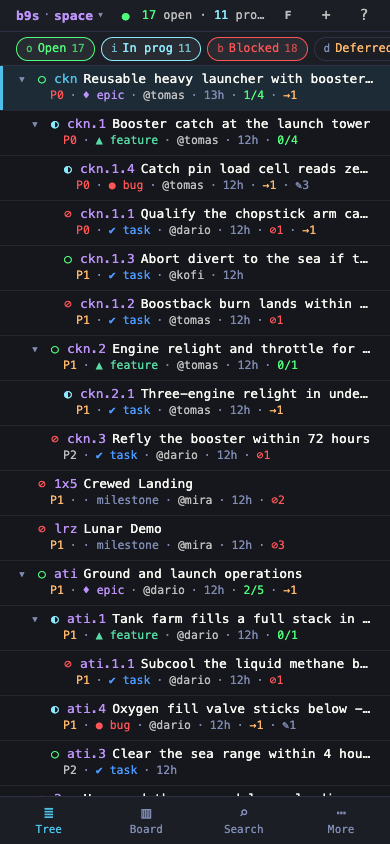
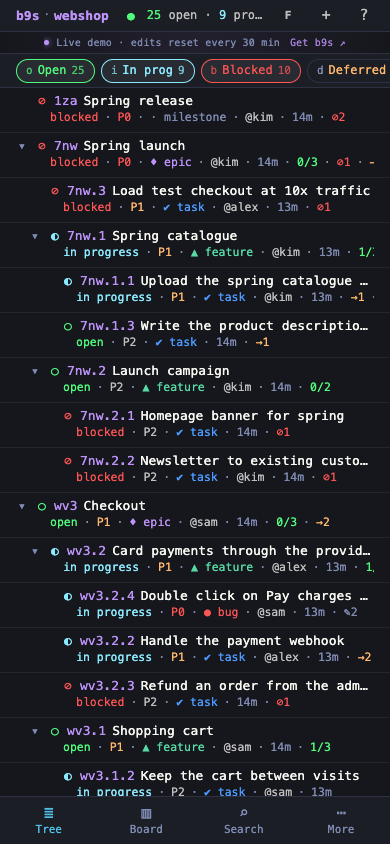
docs(readme): show the web shop demo at v1.3.2 in the screenshots
The terminal, browser and phone screenshots now show the sample web
shop the demo runs, with epics open on their features and tasks. The
text names the demo sample and the exact update time in the detail.

Refs: bd-hffz.18.6, bd-hffz.18.7

Changed region(s): [[0.0, 0.0, 1.0, 0.955]]

diff --git a/README.md b/README.md
@@ -13,7 +13,7 @@ https://github.com/user-attachments/assets/ccc8ebc9-4daf-4867-8c41-3f91df364f42
 
 | Terminal | Browser | Phone |
 |:---:|:---:|:---:|
-| ![b9s in a terminal, the issue tree of a sample project](docs/screenshot.png) | ![b9s web on a desktop browser, the board with one swimlane per epic](docs/screenshot-web-board.png) | <img src="docs/screenshot-phone.png" alt="b9s web on a phone, the issue tree" width="200"> |
+| ![b9s in a terminal, the issue tree of the sample web shop: epics, features and tasks](docs/screenshot.png) | ![b9s web on a desktop browser, the board of the sample web shop with one swimlane per epic](docs/screenshot-web-board.png) | <img src="docs/screenshot-phone.png" alt="b9s web on a phone, the issue tree of the sample web shop" width="200"> |
 
 b9s is a keyboard-driven terminal UI modelled on [k9s](https://k9scli.io/): if you know k9s, you already know most of b9s. It opens any Beads project, including a fresh `bd init` with no server, and shows changes from `bd` or another agent as they happen. `b9s web` serves the same project, with every write, to a browser or a phone.
 
@@ -98,7 +98,7 @@ The tree shows every issue under its parent. Move with `j` and `k`, open an issu
 
 To open the same project on your phone, run `b9s web` in the same folder and follow [Phone and browser](#phone-and-browser).
 
-No Beads project at hand? Download the [sample project](examples/sample-project/), a made-up web shop with epics, blocked work and comments, and browse it:
+No Beads project at hand? Download the [sample project](examples/sample-project/), the made-up web shop the [demo](https://demo.b9s.osen.co) runs, with epics split into features and tasks, two releases, blocked work and comments, and browse it:
 
 ```bash
 mkdir -p b9s-sample/.beads && cd b9s-sample
@@ -153,7 +153,7 @@ Everywhere:
 
 In the edit form, `Tab` and `Shift-Tab` move between fields, `Enter` starts a new line in Description and Notes, `→` completes an assignee or label, `Ctrl-E` opens Description or Notes in `$EDITOR`, `Ctrl-S` saves and `Esc` cancels.
 
-The detail pane opens with a card framed in the issue's status color: type, ID and last update, the title, then status, priority, creator and assignee. Below the card come the created date, owner and labels, then the description, design, acceptance and notes as Markdown. An issue with children lists them with a done count and a progress bar. A relations list shows the parent, blockers and the issues it blocks, and the comments come last.
+The detail pane opens with a card framed in the issue's status color: type, ID and last update (its age, with the exact local time below it), the title, then status, priority, creator and assignee. Below the card come the created date, owner and labels, then the description, design, acceptance and notes as Markdown. An issue with children lists them with a done count and a progress bar. A relations list shows the parent, blockers and the issues it blocks, and the comments come last.
 
 In the detail pane, Mermaid code fences render as terminal diagrams for `graph` and `flowchart` with TD, TB or LR direction, and for `sequenceDiagram`. Other types, diagrams that fail to render, and diagrams wider than the pane stay as code. Widen the pane to retry a wide diagram. Copying an issue keeps the Mermaid source.
 
